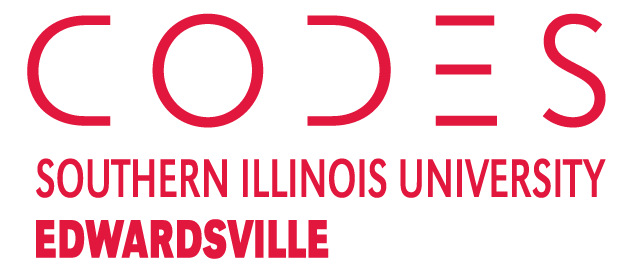
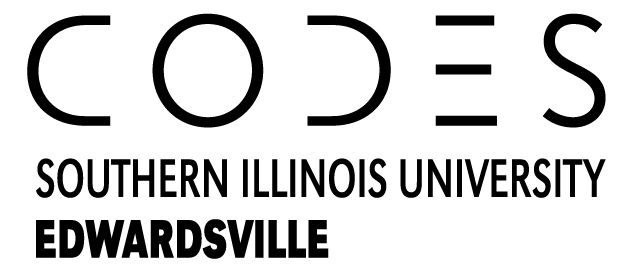
.

diff --git a/src/components/sectionProduct.js b/src/components/sectionProduct.js
@@ -27,6 +27,7 @@ const SectionProduct = ({ name, type, section, cancelSection, cancelProduct }) =
 
     // Show product container
     const showProduct = async () => {
+        console.log('test')
         cancelSection();
         cancelProduct();
         // Hide create-container
@@ -49,9 +50,11 @@ const SectionProduct = ({ name, type, section, cancelSection, cancelProduct }) =
         commentContainer.innerHTML = "";
         commentInput.value = "";
         // generate comments
-        if (res.comments.length > 0) {
-            const comments = res.comments.map((v, i) => <ProductComment author={v.author} timestamp={v.timestamp} content={v.content} />);
-            commentContainer.innerHTML = renderToString(comments);
+        if (res.comments) {
+            if (res.comments.length > 0) {
+                const comments = res.comments.map((v, i) => <ProductComment author={v.author} timestamp={v.timestamp} content={v.content} />);
+                commentContainer.innerHTML = renderToString(comments);
+            }
         }
         // Set current product
         sessionStorage.setItem('currentProduct', name);

diff --git a/src/pages/team.js b/src/pages/team.js
@@ -21,7 +21,7 @@ const Team = () => {
         const req = await fetch(`${apiURL}/api/section`);
         const response = await req.json();
         if (response.success === true) {
-            setSections(response.sections); // Store the sections in state
+            setSections(response.sections.sort((a, b) => a.order - b.order)); // Store the sections in state
         } else {
             setShowError(true);
             setErrorMessage(response.error);
@@ -499,6 +499,8 @@ const Team = () => {
                 </section>
                 <section className='content'>
                     <div className='content-background'>
+                    </div>
+                    <div className='content-image-center' id="content-image-center">
                         <img className='content-background-image' src='/media/cropped-Artboard-1-1.png' alt='codes logo' id='content-background-image-codes' />
                     </div>
                     <div className='content-product' id='content-product'>

diff --git a/src/css/team.css b/src/css/team.css
@@ -49,7 +49,7 @@
 }
 
 .content-background {
-    position: relative;
+    position: absolute;
     height: 100%;
     width: 100%;
     overflow-x: hidden;
@@ -57,13 +57,21 @@
     background-image: url('/public/media/leaf-solid.svg');
     background-size: 50px;
     opacity: 10%;
-    filter: var(--accentFilter);
+    /* filter: var(--accentFilter); */
     /* border: 2px solid red; */
 }
 
 .content-background-image {
     position: absolute;
-
+    width: auto;
+    max-width: 90%;
+    left: 5%;
+    height: 40%;
+    max-height: auto;
+    top: 2%;
+    /* filter: var(--accentFilter); */
+    filter: invert(40%) sepia(13%) saturate(770%) hue-rotate(64deg) brightness(101%) contrast(86%);
+    /* border: 2px solid red; */
 }
 
 .content-product {
